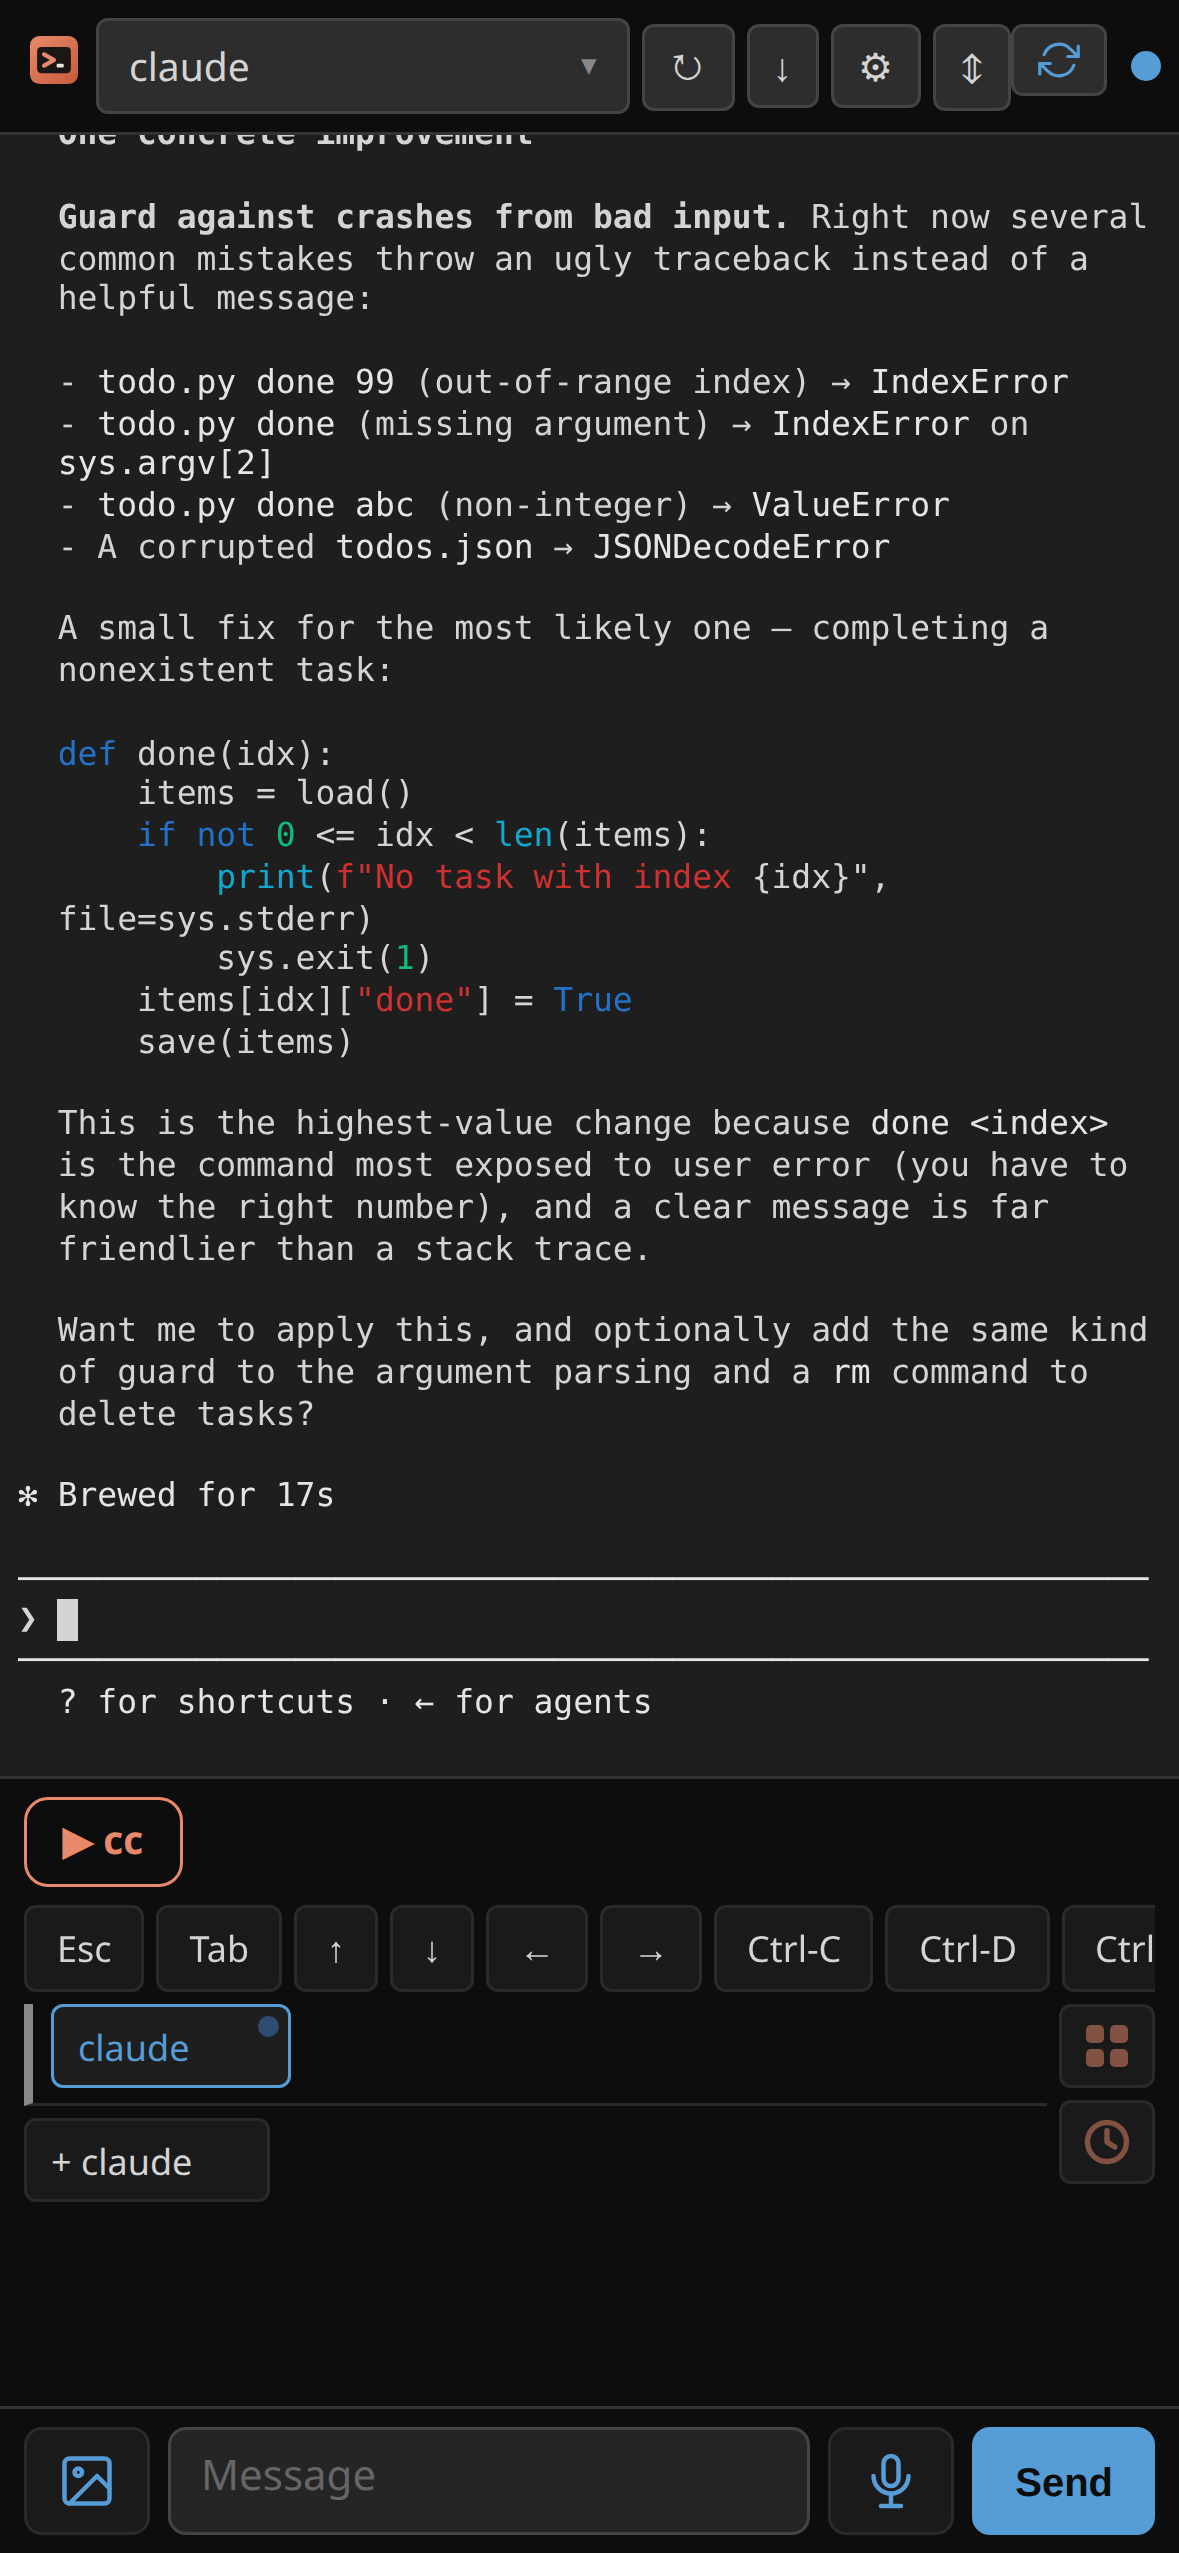
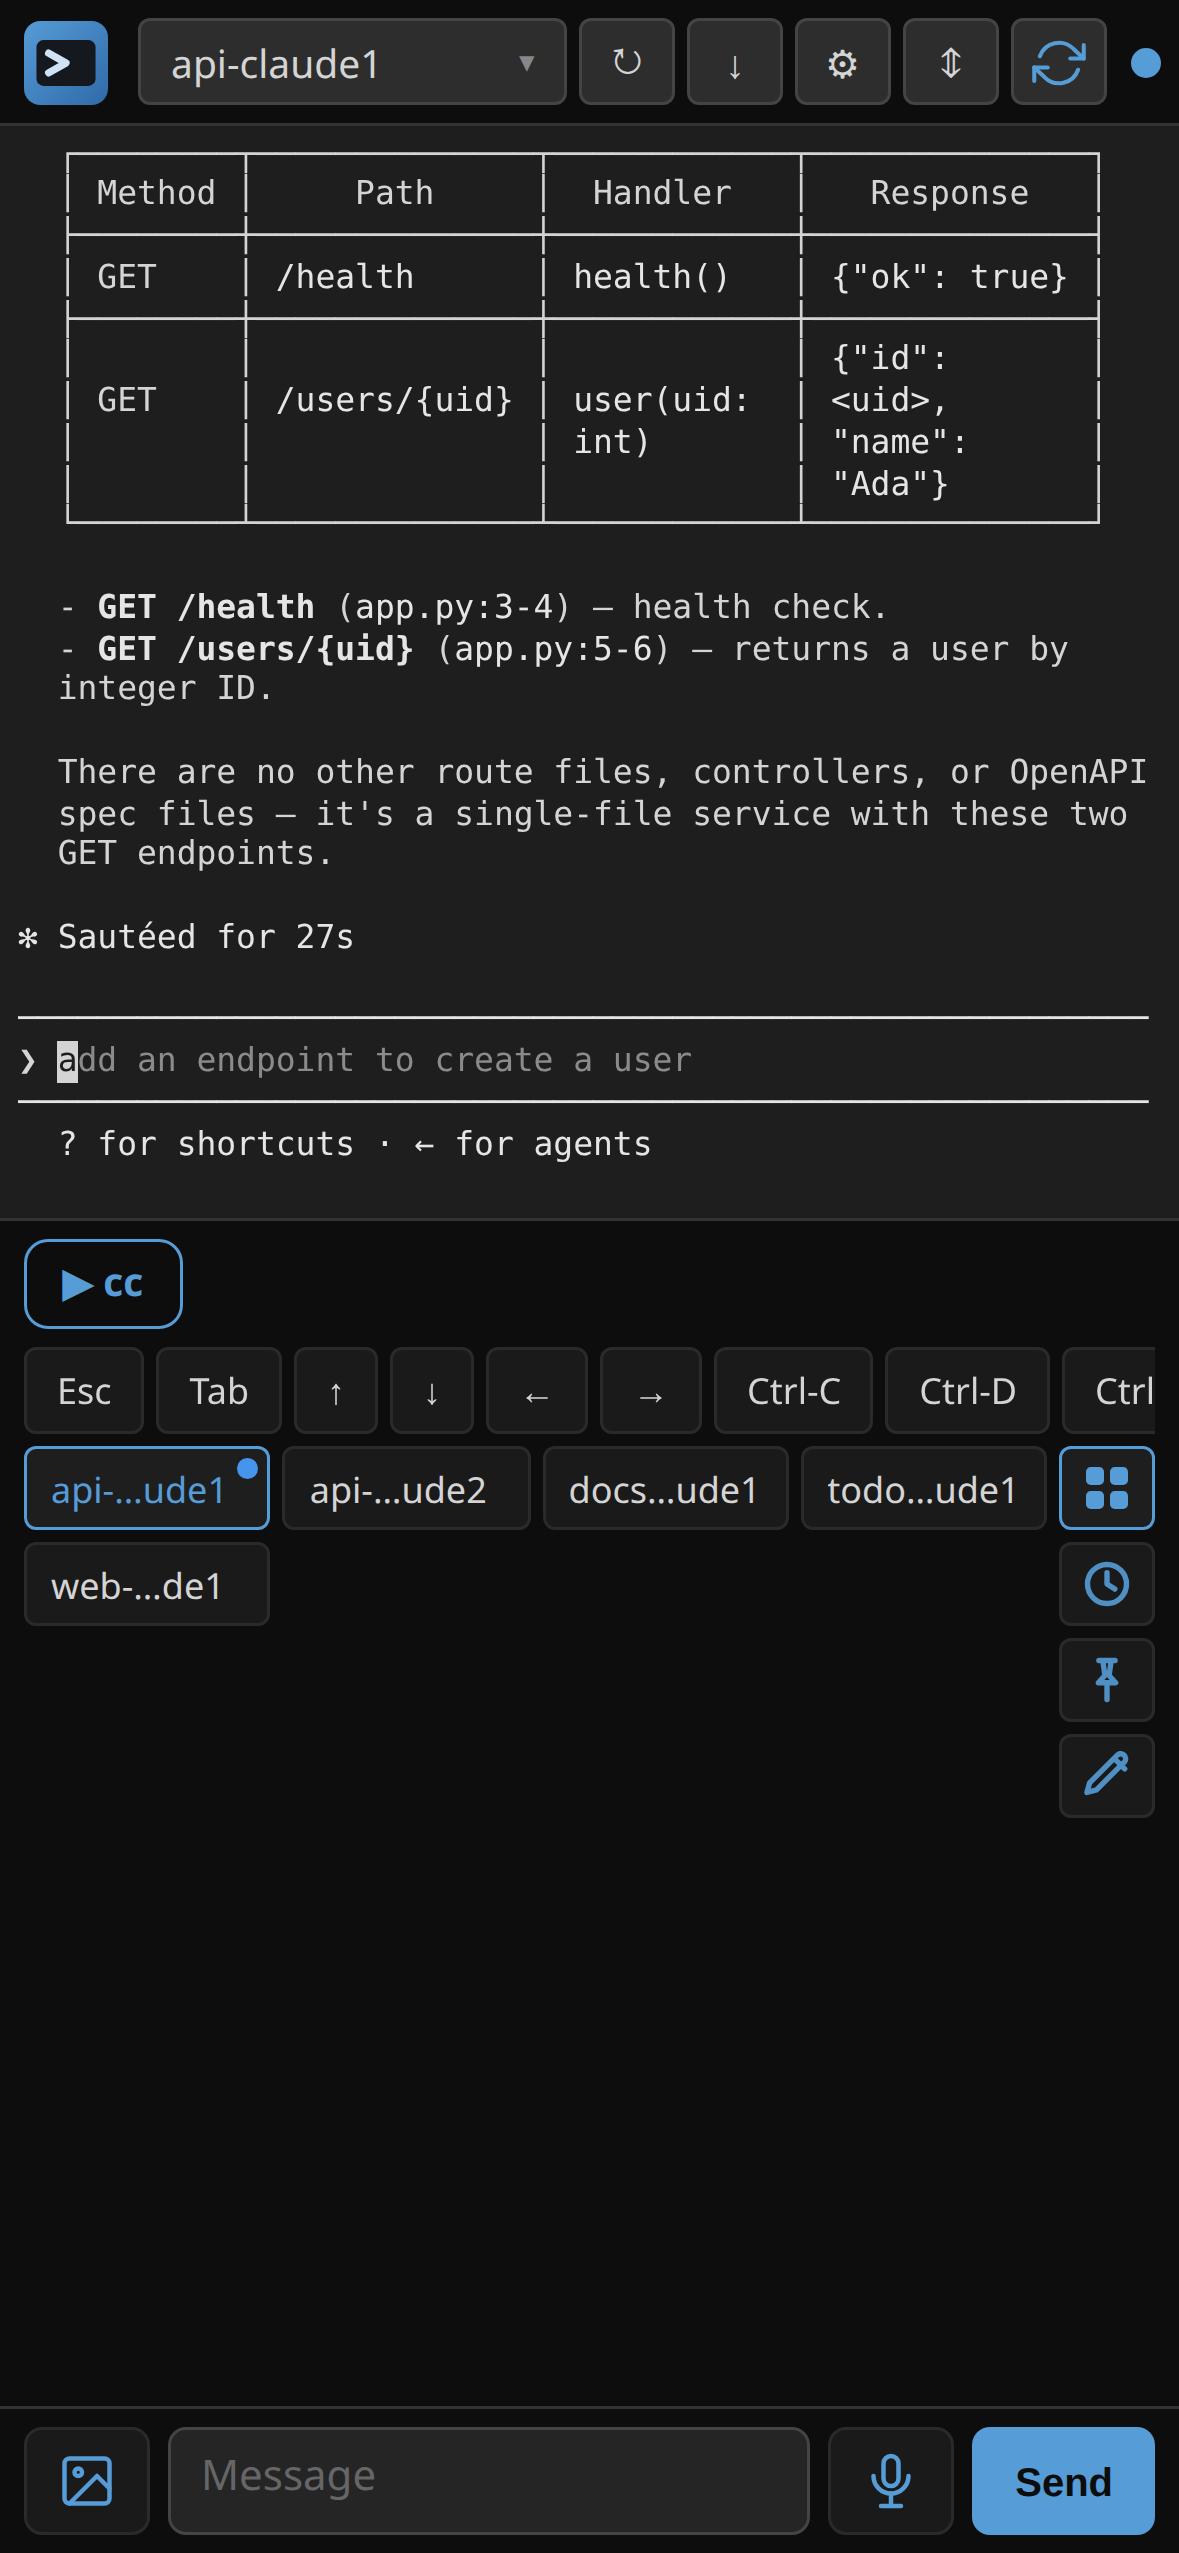
docs: broaden positioning — multi-project, no-tmux, desktop
Reframe the README around three things the README didn't say before:

- For people who don't know tmux: mobile-cc creates, names, and switches
  sessions from buttons; "you never have to learn tmux." Even tmux users who
  dislike the shortcuts get tap-to-switch and a quick-keys row.
- Managing many Claude Code sessions across projects: a new "Juggle every
  project from one screen" section with the pane-picker shot (full session
  names + New session button).
- Desktop: a "Great on the desktop, too" section with a full-width desktop
  screenshot, now that ttyview-core auto-widens the window to fill large
  viewports (ttyview commit ede981d).

All shots are from a real multi-session Claude Code run (5 sessions across 4
projects) on a fresh VM. hero.png updated to a real session showing a
formatted response + project tabs; sessions.png and desktop.png are new.

Claude-Session: https://claude.ai/code/session_01Crn44tntoSriLk995TR3xU

diff --git a/README.md b/README.md
@@ -4,49 +4,77 @@
 [![Release](https://img.shields.io/github/v/release/eyalev/mobile-cc?sort=semver)](https://github.com/eyalev/mobile-cc/releases/latest)
 [![License: MIT](https://img.shields.io/badge/License-MIT-blue.svg)](./LICENSE)
 
-**Drive Claude Code from your phone.** Already have Claude Code running in
-`tmux` on your laptop or a server? mobile-cc lets you read the conversation
-and type back from your phone's browser — no SSH app, no copy-paste fights,
-nothing to install on the phone.
+**Drive Claude Code from your phone — or any browser.** mobile-cc puts your
+Claude Code sessions on a tap-friendly web page: read the conversation, type
+back, and switch between projects — no SSH client, no copy-paste fights, and
+not a single tmux shortcut to memorize.
 
 <p align="center">
   <img src="docs/media/hero.png" alt="The real Claude Code TUI running in mobile-cc on a phone" width="300">
 </p>
 
-It's a single ~9 MB Rust binary you run on the **same machine** as Claude
-Code. It attaches to your existing tmux session and serves a phone-friendly
-web UI. You reach that UI from your phone over a private tunnel (Tailscale —
-walked through below).
+It runs as one ~9 MB binary on the **same machine** as Claude Code and serves
+a web UI you open from your phone or your desktop. It uses `tmux` under the
+hood to keep sessions alive across disconnects — but **you never have to learn
+tmux**: mobile-cc creates, names, and switches sessions for you, from buttons.
+
+---
+
+## Juggle every project from one screen
+
+Running Claude Code in five repos at once? Each session is a tab. Tap to jump
+between them; tap **+ New session** to start another — no `tmux new`, no
+`Ctrl-b` gymnastics. Tabs survive restarts, and a dot flags any session
+waiting on a permission prompt or with fresh output, so you know which project
+needs you.
+
+<p align="center">
+  <img src="docs/media/sessions.png" alt="The pane picker listing Claude Code sessions across several projects, with a New session button" width="300">
+</p>
 
 ---
 
 ## See it
 
-You get the **real Claude Code TUI**, rendered live on your phone — syntax
-highlighting, dialogs, permission prompts and all — auto-fit to your screen so
-an 80-column terminal is readable without pinch-zooming. A quick-keys row adds
-`Esc`, `Tab`, `Ctrl-C`, and arrows that phone keyboards hide, and you type
-replies in the box at the bottom.
+You get the **real Claude Code TUI**, rendered live — syntax highlighting,
+dialogs, permission prompts and all — auto-fit to your screen so an 80-column
+terminal is readable without pinch-zooming. A quick-keys row adds `Esc`,
+`Tab`, `Ctrl-C`, and arrows that phone keyboards hide, and you type replies in
+the box at the bottom.
 
 <p align="center">
   <img src="docs/media/use.gif" alt="Driving Claude Code from a phone — typing a reply with the quick-keys row" width="300">
+</p>
+
+## Great on the desktop, too
+
+Open the same URL in a desktop browser and the terminal widens to fill the
+window at a comfortable density — a full-width Claude Code session with your
+project tabs down the side. Same tool, same tabs, phone and laptop in sync.
+
+<p align="center">
+  <img src="docs/media/desktop.png" alt="mobile-cc filling a desktop browser window with a full-width Claude Code session and project tabs" width="760">
 </p>
 
 ---
 
 ## Quickstart
 
-You need a machine running **tmux** (Linux or macOS) that your phone can
-reach over [Tailscale](https://tailscale.com/). Four steps:
+You need a machine (Linux or macOS) that your phone can reach over
+[Tailscale](https://tailscale.com/). Four steps:
 
-### 1. Have Claude Code running in tmux
+### 1. Start a Claude Code session
 
-On the machine, inside a tmux session:
+mobile-cc keeps your sessions alive in `tmux`, so start one there:
 
 ```bash
-tmux new -s cc      # or attach to one you already have
-claude              # start Claude Code as usual
+tmux new -s my-project   # a named session
+claude                   # run Claude Code as usual
 ```
+
+New to tmux? You don't need to be. Install mobile-cc (next step), open the UI,
+tap **+ New session**, then run `claude` inside it — that's the last time tmux
+is even mentioned.
 
 ### 2. Install mobile-cc
 
@@ -78,11 +106,12 @@ tailscale serve --bg --https=443 http://127.0.0.1:7800
 That prints an `https://<machine>.<your-tailnet>.ts.net/` URL. (The installer
 also prints this if Tailscale is already set up.)
 
-### 4. Open the URL on your phone
+### 4. Open the URL on your phone or laptop
 
-Install the Tailscale app on your phone, sign in to the same account, then
-open that `https://…ts.net/` URL in any mobile browser. Pick the tmux pane
-running Claude Code from the picker at the top — and you're driving it.
+Install Tailscale on the device you want to drive from (phone app or desktop
+client), sign in to the same account, then open that `https://…ts.net/` URL in
+any browser. Pick the session running Claude Code from the picker at the top —
+and you're driving it.
 
 > Because it's served over HTTPS, Chrome on Android offers **Add to Home
 > screen**, and mobile-cc opens like a standalone app.
@@ -91,12 +120,14 @@ running Claude Code from the picker at the top — and you're driving it.
 
 ## What you get
 
+- **No tmux knowledge required** — create, name, switch, and kill sessions from
+  buttons. Even if you live in tmux, you never reach for `Ctrl-b` again.
 - **The real Claude Code TUI** — the actual terminal, rendered as live cell
-  state (not screen-scraped images), with syntax highlighting and auto-fit so
-  it's legible on a phone. This is the default view.
+  state (not screen-scraped images), with syntax highlighting. Auto-fits a
+  phone screen and widens to fill a desktop window.
 - **Quick-keys row** above the keyboard — `Esc`, `Tab`, `Ctrl-C`, arrows.
-- **Pinned tabs** — switch between tmux panes / sessions with one tap. Survives
-  tmux restarts (pinned by session name). Dots flag a session waiting on a
+- **Project tabs** — every session is a tab; switch with one tap. Survives
+  restarts (pinned by session name). Dots flag a session waiting on a
   permission prompt or with new output.
 - **Image paste / pick** — attach a screenshot from your phone; it's staged on
   the server and inserted as `[image: /path/...]`, which Claude Code reads just